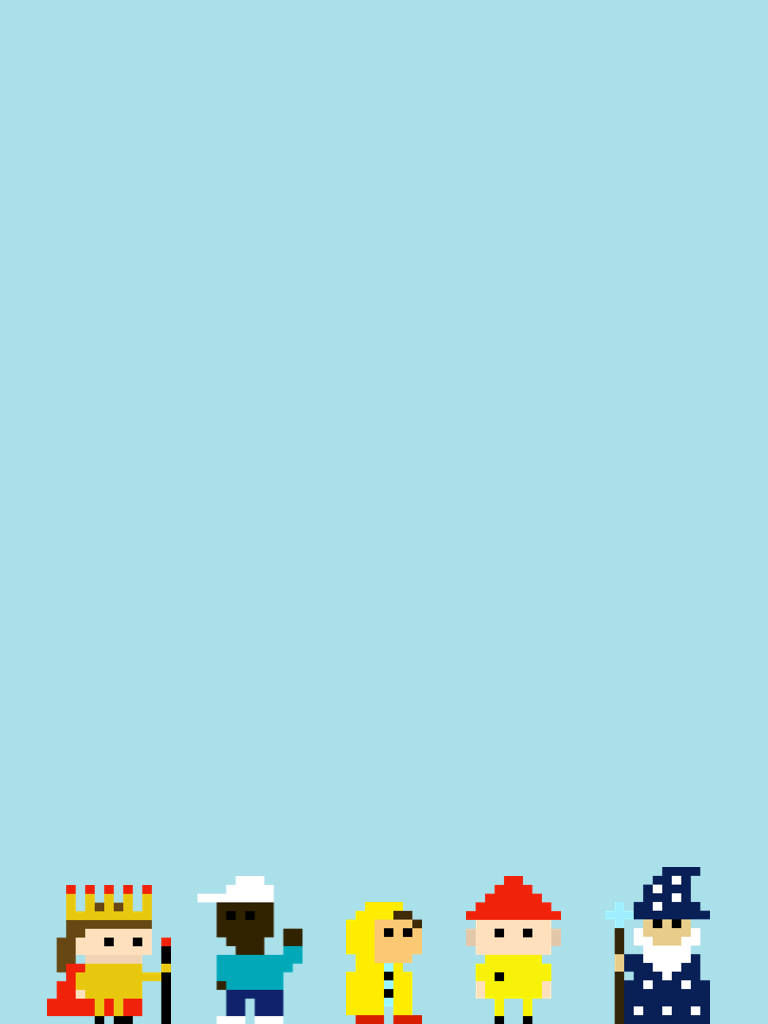
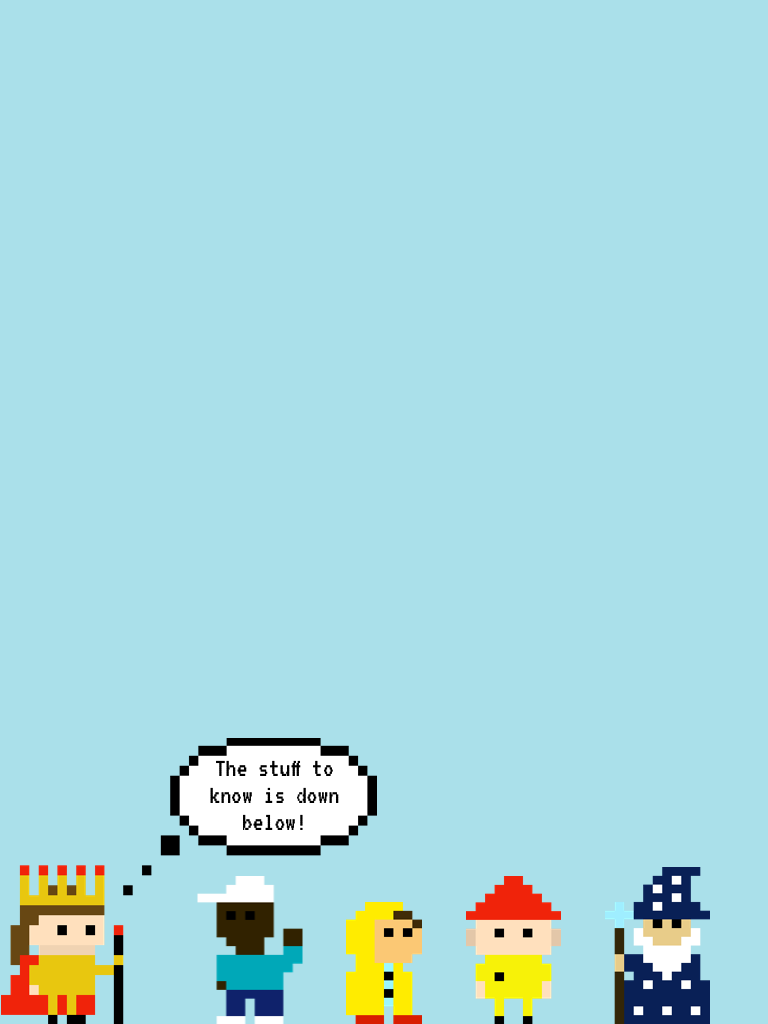
Taylor end of class commit

Changed region(s): [[0.0, 0.7188, 0.5, 1.0]]

diff --git a/public/stylesheets/style.css b/public/stylesheets/style.css
@@ -193,7 +193,7 @@ a {
 
 @media (min-width: 1100px) {
   .parallax {
-    background-image: url('../media/desktop-background2.png');
+    background-image: url('../media/desktop-background3.png');
     background-position: bottom;
   }
 
